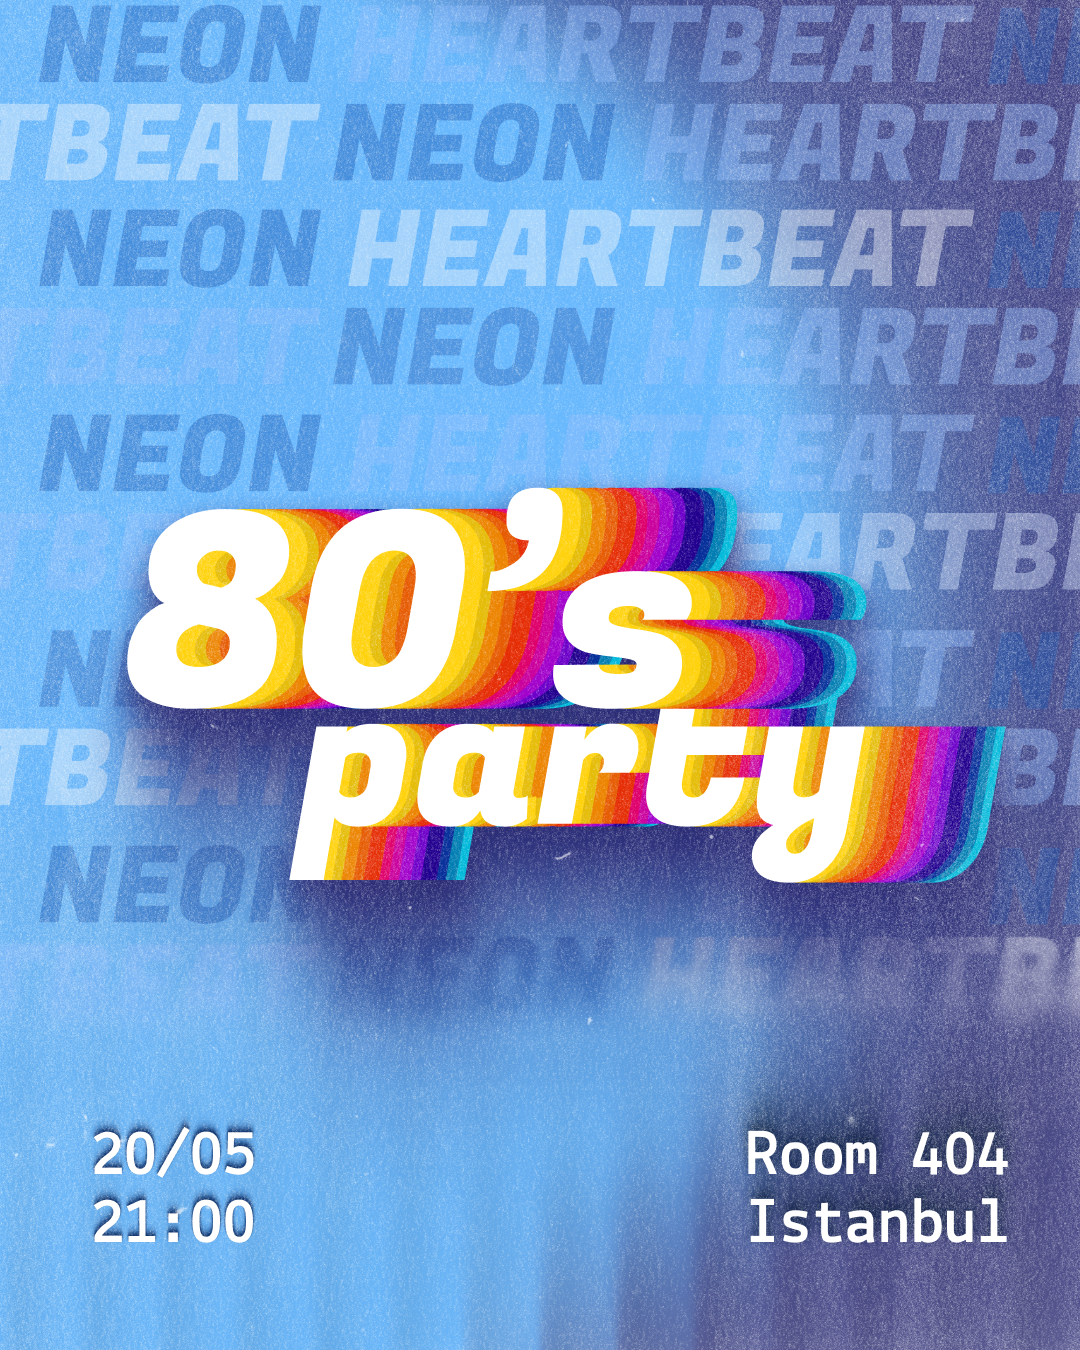
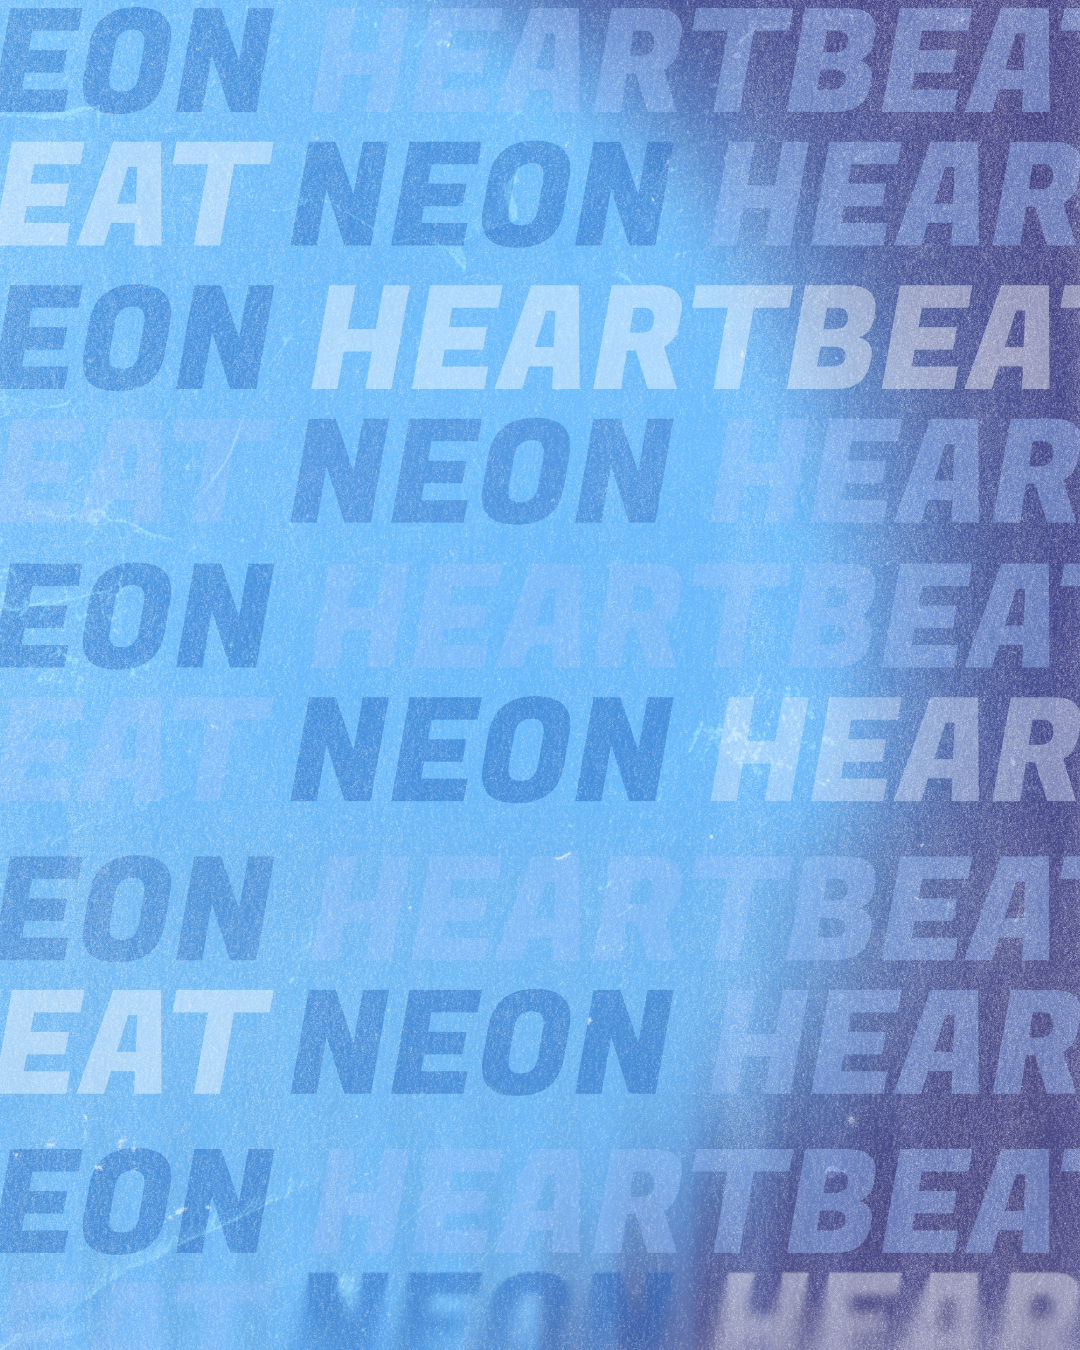
Update posters section & add photography project
- Removed deleted posters (day 3, day 5, Instagram post 13)
- Added new posters (day 12, day 20)
- Updated modified posters (day 2, day 2.1)
- Added photography section (coming soon)
- Synced poster image list in works.js to match actual files

diff --git a/src/pages/works.js b/src/pages/works.js
@@ -52,20 +52,28 @@ export const PROJECTS = [
     description: `<p>A collection of poster designs showcasing typography, composition, and visual storytelling.</p>`,
     images: [
       '/assets/posters/album cover-smooth deep house.png',
-      '/assets/posters/day 11.png',
       '/assets/posters/day 1.png',
-      '/assets/posters/day 2.1.png',
       '/assets/posters/day 2.png',
+      '/assets/posters/day 2.1.png',
       '/assets/posters/day 3.1.png',
-      '/assets/posters/day 3.png',
       '/assets/posters/day 5.1.png',
-      '/assets/posters/day 5.png',
-      '/assets/posters/Instagram post - 31.png',
-      '/assets/posters/Instagram post - 13.png',
-      '/assets/posters/Instagram post - 44.png',
+      '/assets/posters/day 11.png',
+      '/assets/posters/day 12.png',
+      '/assets/posters/day 20.png',
       '/assets/posters/Instagram post - 29.png',
+      '/assets/posters/Instagram post - 31.png',
       '/assets/posters/Instagram post - 39.png',
+      '/assets/posters/Instagram post - 44.png',
     ],
+  },
+  {
+    id: 'photography',
+    title: 'PHOTOGRAPHY',
+    titleHTML: 'Photography',
+    role: 'Photographer',
+    tag: '✧ photography — visual stories',
+    description: `<p>A curated collection of photographs capturing moments, textures, and perspectives through a personal lens.</p>`,
+    images: [],
   },
   {
     id: 'illustrations',
